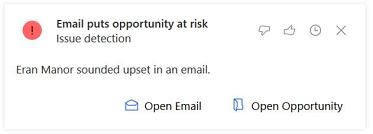
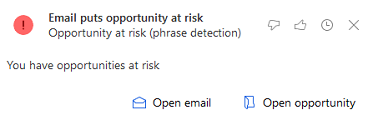
improvements

diff --git a/ai-docs/sales/action-cards-reference.md b/ai-docs/sales/action-cards-reference.md
@@ -46,7 +46,7 @@ The following cards are available under **Upcoming meetings**.
     <td><a href="#RelatedNEWS">Related news</a></td>
   </tr>
   <tr>
-    <td><a href="#NearbyCustomers">Nearby customers</a></td> 
+    <td><a href="#NearbyCustomers">Near by customers</a></td> 
     <td></td>
     <td></td>
   </tr>
@@ -55,10 +55,10 @@ The following cards are available under **Upcoming meetings**.
 
 |Insight card	| Description |
 |-------------|-------------|
-|<a name="MeetingToday"></a>**Meeting today** <br/>  ![Insight card for meeting today](media/ActionCard_MeetingToday.png "Insight card for meeting today")<br>**Meeting today (Exchange)**<br>![Insight card for meeting today exchange](media/ActionCard_MeetingTodayExchange.png "Insight card for meeting today exchange") | **Description**:<br>Tells that you have a meeting scheduled for today. <br>The Meeting Today card is derived from your appointments in Dynamics 365 Sales organization. <br>The Meeting Today (Exchange) card is derived from Exchange server.<br>**Features**:<br>Shows the meeting title, with a link to the meeting record. Shows the meeting description, location, start time, and key participants Open the detailed view to see the regarded entity and a collection of closely related insight cards, including relevant people, companies, opportunities, nearby customers, news, and more.<br>**Actions**: <br>Open Appointment<br>Email Attendees|
+|<a name="MeetingToday"></a>**Meeting today** <br/>  ![Insight card for meeting today](media/ActionCard_MeetingToday.png "Insight card for meeting today")<br>**Meeting today (Exchange)**<br>![Insight card for meeting today exchange](media/ActionCard_MeetingTodayExchange.png "Insight card for meeting today exchange") | **Description**:<br>Tells that you have a meeting scheduled for today. <br>The **Meeting Today** card is derived from your appointments in Dynamics 365 Sales organization. <br>The **Meeting Today (Exchange)** card is derived from you **Exchange** server.<br>**Features**:<br>Shows the meeting title, with a link to the meeting record. Shows the meeting description, location, start time, and key participants Open the detailed view to see the regarded entity and a collection of closely related insight cards, including relevant people, companies, opportunities, near by customers, news, and more.<br>**Actions**: <br>Open Appointment<br>Email Attendees|
 | <a name="UpcomingMeeting"></a>**Upcoming Meeting** <br />  ![Insight card for upcoming meeting](media/ActionCard_UpcomingMeeting.png "Insight card for upcoming meeting")<br> **Upcoming Meeting(Exchange)** <br />  ![Insight card for upcoming meeting exchange](media/ActionCard_UpcomingMeetingExchange.png "Insight card for upcoming meeting exchange") | **Description**: <br>Tells that you have a meeting scheduled to start in 30 minutes or less. When available, this card is given highest priority and appears at the top of the stack. That way, you'll have all of your important meeting information available. <br> The "meeting today" card is similar, but it's shown all day until the meeting ends, provides fewer features, and is given lower priority. <br>**Features**:<br> Shows the meeting title, with a link to the meeting record.<br>Shows the meeting description (shortened for space if needed). <br>Shows the regarding record (with link).<br> Shows a list of attendees (with link to the full list if there's more than four).<br>Displays a map of the location (if relevant and available; not for online meetings).<br> Open the detailed view to see a collection of closely related insight cards, including relevant people, companies, opportunities, news, and more.<br>**Actions**:<br> Join Meeting <br> Email Attendees |
 | <a name="RelatedNEWS"></a>**Related News** <br />  ![Insight card for related news](media/ActionCard_RelevantNews.png "Insight card for related news") | **Description**: <br>The card displays news headlines related to companies that are participating at the meeting. It's shown in the card details view when you tap a meeting card from the assistant feed.<br> **Features**:<br> Shows the date when the news was last updated.<br> Thumbnail image and headline for each found article. Click to view the full article. |
-| <a name="NearbyCustomers"></a>**Nearby Customers** <br />  ![Insight card for nearby customers](media/ActionCard_NearbyCustomers.png "Insight card for nearby customers")| **Description**: <br>The card finds customers that are located nearby the meeting location. It's shown in the card details view when you tap a meeting card from the assistant feed.<br> **Features**:<br> Shows the name of the nearest city. <br> Shows basic information about each company.|
+| <a name="NearbyCustomers"></a>**Near by Customers** <br />  ![Insight card for near by customers](media/ActionCard_NearbyCustomers.png "Insight card for near by customers")| **Description**: <br>The card finds customers that are located near by the meeting location. It's shown in the card details view when you tap a meeting card from the assistant feed.<br> **Features**:<br> Shows the top three near by customers. <br> Shows basic information about each company.|
 
 ## Reminders
 
@@ -81,21 +81,23 @@ The following cards are available under **Reminders**.
   </tr>
   <tr>
     <td><a href="#RecentMeetingExchange">Recent meeting/Recent meeting (Exchange)</a></td>
-    <td></td>
-    <td></td>
+    <td><a href="#ConsentSuggestion">Consent suggestion</a></td>
+    <td><a href="#MissedEmail">Missed email</a></td>
   </tr>
 </table>
 
 
 |Insight card	| Description |
 |-------------|-------------|
-| <a name="ActivityDueDate"></a>**{*Activity*} due today** <br />  ![Insight card for task due today](media/ActionCard_TaskDueToday.png "Insight card for task due today") | **Description**:<br> Tells you that an activity assigned to you is due today.<br> **Features**:<br>Indicates the type of activity (email, letter, phone call, task, or custom).<br> **Actions**: <br>Close (for activities, such as phone call and task)<br>Complete|
+| <a name="ActivityDueDate"></a>**{*Activity*} due today** <br />  ![Insight card for task due today](media/ActionCard_TaskDueToday.png "Insight card for task due today") | **Description**:<br> Tells you that an open activity is due today.<br> **Features**:<br>Indicates the type of activity (email, letter, phone call, task, or custom).<br> **Actions**: <br>Close (for activities, such as phone call and task)<br>Complete|
 | <a name="CloseDateComingSoon"></a>**Close date coming soon** <a name="CloseDateComingSoon"></a> <br />  ![Insight card for close date coming soon](media/ActionCard_CloseDateComingSoon.png "Insight card for close date coming soon") | **Description**: <br>Tells you that an open opportunity will soon reach its estimated close date. <br>**Features**:<br> Identifies the opportunity.<br>Tells how far away the close date is.<br>**Actions**:<br> Open opportunity<br>**Configuration options**:<br> Set how many days before the close date to start showing the card. The default value is set by your administrator.<br>**Note**: When you are viewing a dashboard, you'll only see these cards for opportunities that are assigned to you, but when you view a specific opportunity you'll see this card even if that opportunity is assigned to somebody else. |
 | <a name="MissedCloseDate"></a>**Missed (opportunity) close date** <br />  ![Insight card for missed close date](media/ActionCard_CloseDateMissed.png "Insight card for missed close date") | **Description**:<br> Tells you that an open opportunity has passed its close date. <br>**Features**:<br> Identifies the opportunity.<br>**Actions**:<br> Open opportunity<br>**Note**: When you are viewing a dashboard, you'll only see these cards for opportunities that are assigned to you, but when viewing a specific opportunity you'll see this card even if that opportunity is assigned to somebody else.|
 |<a name="EmailOpened"></a>**Email opened** <br />  ![Insight card for email opened](media/ActionCard_OpenedEmail.png "Insight card for email opened") | **Description**: <br>A followed email was opened by its recipient.<br>**Features**:<br>Names the contact you sent the email to.<br>Provides descriptive text that shows the subject of the email, the time it was opened, and the approximate location where it was opened.<br>**Actions**:<br>Open Email<br>**Prerequisites**:<br>Enable email engagement to use this card. To learn more, see [Configure and enable email engagement](configure-email-engagement.md). |
 | <a name="EmailReminder"></a>**Email reminder** <br />  ![Insight card for email reminder](media/ActionCard_EmailReminder.png "Insight card for email reminder") | **Description**: <br> You set a follow-up reminder for an email you recently sent, and its trigger conditions have just been met. Trigger conditions always include a date but may also include conditionals such as whether the email wasn't opened or replied to by that date.<br>**Features**:<br> Names the contact that you sent the email to.<br>Tells you that you set a follow-up reminder for this email.<br>Provides a description that summarizes the trigger conditions.<br>**Actions**:<br>Open Email<br>**Prerequisites**:<br>Enable email engagement to use this card. To learn more, see [Configure and enable email engagement](configure-email-engagement.md). |
 | <a name="NoActivityWithType"></a>**No activity with {*record type*}** <br />  ![Insight card for a lack of activity](media/ActionCard_NoActivity.png "Insight card for no activity") | **Description**:<br>Allows you to know that a record that you own has been inactive for some time. Applies to contact, opportunity, lead, account, and case records.<br>**Features**: <br>Identifies the type and name of the relevant record.<br>Explains why the card was generated.<br>**Actions**:<br>Open {*record type*}<br>Send Email<br>**Configuration options**: <br> Set the number of days of inactivity that must pass before a card is generated. You can set a different value for each type of supported record (contact, opportunity, lead, account, and case). |
 | <a name="RecentMeetingExchange"></a>**Recent meeting** <br />![Insight card for a recent meeting](media/ActionCard_RecentMeeting.png "Insight card for recent meeting")<br>**Recent meeting (Exchange)** <br />![Insight card for recent meeting exchange](media/ActionCard_RecentMeetingExchange.png "Insight card for recent meeting exchange") | **Description**:<br> Tells you that a meeting that you organized (where you are the record owner) has recently ended, giving you an easy opportunity to document the meeting in Dynamics 365 Sales. The card is displayed for 30 minutes after the scheduled end of the meeting, and then removed.<br>**Features**:<br>Identifies the meeting.<br>**Actions**:<br>Take Notes (Only for recent meeting)<br>Open Appointment |
+| <a name="ConsentSuggestion"></a>**Consent Suggestion** <br/> ![Consent Suggestion](media/ActionCard_ConsentSuggestion.png "Insight card for consent suggestion") | **Description**:<br>This card allows you to provide consent that allows Dynamics 365 Sales to access your Exchange data so that auto capture can provide suggestions for activities and contacts.<br>**Actions**:<br>Allow Access<br>**Prerequisite**: <br> Enable premium auto capture to use this card. To learn more, see [How to enable and configure premium auto capture](configure-auto-capture.md#how-to-enable-and-configure-premium-auto-capture).|
+| <a name="MissedEmail"></a>**Missed Email** <br /> ![Insight card for missed email](media/Actioncard_MissedEmail.png "Insight card for missed email") | **Description**: <br> Tells that an important email is unread for configured number of days.<br>**Actions**:<br>Open Email<br>**Configuration options**:<br>The  threshold number of days configurable on Settings page. To learn more, see Assistant. By Default, the number of days for Unread email is 3 days. |
 
 
 ## Insights
@@ -108,55 +110,50 @@ The following cards are available under **Insights**.
 
 <table class="tg">
   <tr>
+    <td><a href="#OpportunityRiskSentiment">Opportunity at risk (sentiment detection)</a></td>
+    <td><a href="#OpportunityRiskPhrase">Opportunity at risk (phrase detection)</a></td>
+    <td><a href="#CompetitorMentioned">Competitor mentioned</a></td>
+  </tr>
+  <tr>
     <td><a href="#IssueDetected">Issue detected</a></td>
-    <td><a href="#SuggestedStakeholder">Suggested stakeholder</a></td>
-    <td><a href="#CompetitorMentioned">Competitor mentioned</a></td> 
-  </tr>
-  <tr>
     <td><a href="#CustomerQuestion">Customer question</a></td>
-    <td><a href="#BuyingIntentDetectedEmail">Buying intent detected in email</a></td>
-    <td><a href="#OpportunityRisk">Opportunity at risk (phrase detection)</a></td>
+    <td><a href="#MeetingRequested">Meeting requested</td>
   </tr>
   <tr>
-    <td><a href="#MeetingRequested">Meeting requested</td>
     <td><a href="#FileRequested">File requested</a></td>
-    <td><a href="#MissedEmail">Missed email</a></td>
+    <td><a href="#BuyingIntentDetectedEmail">Buying intent detected in email</a></td>
+    <td><a href="#SuggestedStakeholder">Suggested stakeholder</a></td>
+  </tr>
+  <tr>
+    <td><a href="#SuggestedActivities">Suggested activities</a></td>
+    <td><a href="#SuggestedContacts">Suggested contacts</a></td>
+    <td><a href="#ContactMovedToNewOrg">Contact moved to a new org</a></td>
   </tr>
   <tr>
     <td><a href="#TodaysTopPeople">Today's top people</a></td>
     <td><a href="#TodaysTopRecords">Today's top records</td>
     <td><a href="#UpcomingFlight">Upcoming flight</a></td>
-  </td>
-  <tr>
-    <td><a href="#SuggestedActivities">Suggested activities</a></td>
-    <td><a href="#SuggestedContacts">Suggested contacts</a></td>
-    <td><a href="#ConsentSuggestion">Consent suggestion</a></td>
   </tr>
-  <tr>
-    <td><a href="#ContactMovedToNewOrg">Contact moved to a new org</a></td>
-    <td></td>
-    <td></td>
-  </tr>
+
 </table>
 
 |Insight card	|  Description |
 |-------------|--------------|
+|<a name="OpportunityRiskSentiment"></a>**Opportunity at Risk (sentiment detection)** <br />![Insight card for Opportunity at risk sentiment](media/ActionCard_OpportunityRiskSentiment.png "Insight card for Opportunity at Risk sentiment") | **Description**: Tell you that when an email is received concerning an open opportunity with negative sentiment which can put the opportunity at risk.<br>**Actions**:<br>Open Email<br>Open opportunity.|
+|<a name="OpportunityRiskPhrase"></a>**Opportunity at Risk (phrase detection)** <br />![Insight card for Opportunity at risk phrase detection](media/ActionCard_OpportunityRiskPhraseDetection.png "Insight card for Opportunity at Risk phrase detection") | **Description**: Tell you that when an email is received concerning an open opportunity contains a phrase which can put the opportunity at risk.<br>**Actions**:<br>Open Email<br>Open opportunity.|
+| <a name="CompetitorMentioned"></a>**Competitor mentioned** <br/>![Insight card for competitor mentioned](media/ActionCard_CompetitorMentioned.png "Insight card for competitor mentioned") | **Description**: <br> A tracked email email that is set as regarding a sales opportunity appears to refer to a company that is listed as a competitor in your system..<br>**Actions**:<br>Add Competitor<br>Always Add<br>**Configuration options**:<br>Set this feature to add the competitor automatically rather than showing the card.<br>**Note**: This is the same as the configuration setting available for this card type, and you can reset it by going to your Assistant settings. To learn more, see [Assistant](assistant.md). |
 | <a name="IssueDetected"></a>**Issue detected** <br/>![Insight card for case detected](media/ActionCard_CaseDetection.png "Insight card for case detected") |  **Description**: <br>An email from a known contact in your inbox appears to include a support request.<br>**Features**:<br>Shows the name of the contact.<br>Tells you that an email that appears to include a support request has arrived.<br>Displays the sentence from the email that appears to be asking for help.<br>**Actions**: <br>Create Case<br>Open Email |
-| <a name="SuggestedStakeholder"></a>**Suggested stakeholder** <br/>![Insight card for recommended stakeholder](media/ActionCard_RecommendedStakeholder.png "Insight card for recommended stakeholder") | **Description**: <br> An email regarding an open opportunity has arrived, and it includes an extra recipient that is not yet listed as a stakeholder for that opportunity.<br>**Features**:<br>Shows the name of the potential stakeholder.<br>Tells you that this person might be a stakeholder in an open opportunity.<br>Displays a short description that includes the name of the opportunity.<br>**Actions**:<br>Add Stakeholder<br>Always Add<br>**Configuration options**:<br>You can choose to add the stakeholder automatically rather than show the card.<br>**Note**: This  is the same as the configuration setting available for this card type, and you can reset it by going to your Assistant settings. To learn more, see [Assistant](assistant.md).|
-| <a name="CompetitorMentioned"></a>**Competitor mentioned** <br/>![Insight card for competitor mentioned](media/ActionCard_CompetitorMentioned.png "Insight card for competitor mentioned") | **Description**: <br> A tracked email that is set as regarding a Sales opportunity appears to refer to a company that is listed as a competitor in your system.<br>**Features**:<br>Shows the name of the competitor.<br>Tells you that a competitor was mentioned in an email.<br>Click the card to open the opportunity that the email is set to be regarding.<br>**Actions**:<br>Add Competitor<br>Always Add<br>**Configuration options**:<br>Set this feature to add the competitor automatically rather than showing the card.<br>**Note**: This is the same as the configuration setting available for this card type, and you can reset it by going to your Assistant settings. To learn more, see [Assistant](assistant.md). |
 | <a name="CustomerQuestion"></a>**Customer question** <br/>![Insight card for yes/no request](media/ActionCard_YesNoRequest.png "Insight card for yes/no request") | **Description**:<br>An email from a known contact in your inbox appears to be asking a question.<br>**Features**:<br>Shows the name of the contact.<br>Tells you that a question has arrived.<br>Displays the sentence from the email that appears to be asking a simple question.<br>**Actions**:<br>Open Email|
-| <a name="BuyingIntentDetectedEmail"></a>**Buying intent detected in email**<br />![Insight card for potential lead or upsell](media/ActionCard_BuyingIntentDetectedEmail.png "Insight card for potential lead or upsell") | **Description**: <br>An email from a known or unknown contact appears to be asking for more information about a product. For known contacts, this may be an upsell opportunity. For unknown contacts, this could be a new lead.<br>**Features**:<br>Shows the name of the sender.<br>Tells you that an email has arrived that may represent an upsell or new-lead opportunity.<br>Displays the sentence from the email that appears to be asking for product information.<br>**Actions**:<br>Open email. |
-|<a name="OpportunityRisk"></a>**Opportunity at Risk (Phrase detection)** <br />![Insight card for Opportunity at risk phrase detection](media/ActionCard_OpportunityRiskPhraseDetection.png "Insight card for Opportunity at Risk phrase detection") | **Description**: Tell you that when an email is received concerning an open opportunity with negative sentiment which can put the opportunity at risk.<br>**Actions**:<br>Open Email<br>Open opportunity.|
 | <a name="MeetingRequested"></a>**Meeting requested**<br />![Insight card for meeting request](media/ActionCard_MeetingRequest.png "Insight card for meeting request") | **Description**: <br>An email from a known contact in your inbox appears to include a meeting request.<br>**Features**:<br>Shows the name of the contact.<br>Tells you that a meeting request has arrived.<br>Displays the sentence from the email that appears to be asking for a meeting.<br>**Actions**:<br>Create Meeting<br>Open Email |
 | <a name="FileRequested"></a>**File requested**<br />![Insight card for file request](media/ActionCard_FileRequest.png "Insight card for file request") | **Description**: <br>An email from a known contact in your inbox appears to include a request for a file.<br>**Features**:<br>Shows the name of the contact.<br>Tells you that a request for a file has arrived.<br>Displays the sentence from the email that appears to be asking for a file.<br>**Actions**:<br>Open Email |
-| <a name="MissedEmail"></a>**Missed Email** <br /> ![Insight card for missed email](media/Actioncard_MissedEmail.png "Insight card for missed email") | **Description**: <br> Tells that an important email is unread for configured number of days.<br>**Actions**:<br>Open Email<br>**Configuration options**:<br>The  threshold number of days configurable on Settings page. To learn more, see Assistant. By Default, the number of days for Unread email is 3 days. |
-| <a name="TodaysTopPeople"></a>**Today's Top People** <br />![Insight card for top people today](media/ActionCard_TopPeople.png "Insight card for top people today") | **Description**: <br>The system analyzes your appointments, tasks, and other work for the day and generates this card to show the contacts you're most likely to interact with today.<br>**Features**:<br>Shows each contact's name and portrait.<br>Shows each contact's title and any business they have with you today (such as a meeting, task, or phone call).<br>Click to view full contact details. |
-| <a name="TodaysTopRecords"></a>**Today's Top Records**<br />![Insight card for top records today](media/ActionCard_TopRecords.png "Insight card for top records today") | **Description**:<br> The system analyzes all of the Sales records that are related to you and lists the records that you are most likely to be working with today based on your recent activities and date information (such as a due date or appointment) in each record.<br>**Features**:<br> Shows a thumbnail image and a summary of each found record.<br>Click to view the full record. |
-| <a name="UpcomingFlight"></a>**Upcoming Flight** <br />  ![flight](media/ActionCard_Flight.png "Insight card for upcoming flight") | **Description**: <br>This card is generated when your Exchange inbox includes an email message that contains a flight confirmation. The system then matches the flight dates to upcoming meetings and finds other information related to the location that you are flying to, such as other nearby customers.<br>**Note**: This card doesn't show live or updated flight information, just information from the flight confirmation email message that triggered the card.<br>**Features**: <br>Flight company and flight number, with a link to the flight record.<br>Departure and arrival times, with airport codes.<br>Related meeting record, with link. Up to three meetings may be listed here.<br>List of customer offices near the destination airport, with links. <br>**Actions**:<br>Open Email|
+| <a name="BuyingIntentDetectedEmail"></a>**Buying intent detected in email**<br />![Insight card for potential lead or upsell](media/ActionCard_BuyingIntentDetectedEmail.png "Insight card for potential lead or upsell") | **Description**: <br>An email from a known or unknown contact appears to be asking for more information about a product. For known contacts, this may be an upsell opportunity. For unknown contacts, this could be a new lead.<br>**Features**:<br>Shows the name of the sender.<br>Tells you that an email has arrived that may represent an upsell or new-lead opportunity.<br>Displays the sentence from the email that appears to be asking for product information.<br>**Actions**:<br>Open email. |
+| <a name="SuggestedStakeholder"></a>**Suggested stakeholder** <br/>![Insight card for recommended stakeholder](media/ActionCard_RecommendedStakeholder.png "Insight card for recommended stakeholder") | **Description**: <br> An email regarding an open opportunity has arrived, and it includes an extra recipient that is not yet listed as a stakeholder for that opportunity.<br>**Features**:<br>Shows the name of the potential stakeholder.<br>Tells you that this person might be a stakeholder in an open opportunity.<br>Displays a short description that includes the name of the opportunity.<br>**Actions**:<br>Add Stakeholder<br>Always Add<br>**Configuration options**:<br>You can choose to add the stakeholder automatically rather than show the card.<br>**Note**: This  is the same as the configuration setting available for this card type, and you can reset it by going to your Assistant settings. To learn more, see [Assistant](assistant.md).|
 | <a name="SuggestedActivities"></a>**Suggested Activities** <br/> ![Suggested activities](media/ActionCard_SuggestedActivities.png "Insight card for suggested activities") | **Description**:<br> This card is provided as an alert you when new activity suggestions are available in Dynamics 365 Sales.<br>**Feature**:<br>Indicates that new activities are available for you with the total number and regarding what.<br> **Actions**: <br>Open activity suggestions<br>**Prerequisite**: <br> Enable premium auto capture to use this card. To learn more, see [How to enable and configure premium auto capture](configure-auto-capture.md#how-to-enable-and-configure-premium-auto-capture). |
 | <a name="SuggestedContacts"></a>**Suggested Contacts** <br/> ![Suggested contacts](media/ActionCard_SuggestedContacts.png "Insight card for suggested contacts") | **Description**: <br>This card is provided as an alert you when new contact suggestions are available in Dynamics 365 Sales.<br>**Feature**:<br>Indicates that new contacts are available for you with the total number and who. <br>**Actions**: <br> Open contact suggestions<br>**Prerequisite**: <br> Enable premium auto capture to use this card. To learn more, see [How to enable and configure premium auto capture](configure-auto-capture.md#how-to-enable-and-configure-premium-auto-capture). |
-| <a name="ConsentSuggestion"></a>**Consent Suggestion** <br/> ![Consent Suggestion](media/ActionCard_ConsentSuggestion.png "Insight card for consent suggestion") | **Description**:<br>This card allows you to provide consent that allows Dynamics 365 Sales to access your Exchange data so that auto capture can provide suggestions for activities and contacts.<br>**Actions**:<br>Allow Access<br>**Prerequisite**: <br> Enable premium auto capture to use this card. To learn more, see [How to enable and configure premium auto capture](configure-auto-capture.md#how-to-enable-and-configure-premium-auto-capture).|
 | <a name="ContactMovedToNewOrg"></a>**Contact moved to a new org** <br/> ![Contact moved to a new org](media/ActionCard_ContactMovedToNewOrg.png "Insight card for contact moved to a new org") | **Description**: Tells you that one of your contacts has moved to a new organization based on the information LinkedIn has.<br>**Features**:<br>Indicates the contact that moved, what the origin company is and the new organization.<br>**Actions**:<br>Open<br> **Prerequisite**: <br> Enable Linkedin Sales Navigator to use this card. To learn more, see [Install, enable, and disable default LinkedIn Sales Navigator controls](https://docs.microsoft.com/dynamics365/linkedin/install-sales-navigator). |
+| <a name="TodaysTopPeople"></a>**Today's Top People** <br />![Insight card for top people today](media/ActionCard_TopPeople.png "Insight card for top people today") | **Description**: <br>The system analyzes your appointments, tasks, and other work for the day and generates this card to show the contacts you're most likely to interact with today.<br>**Features**:<br>Shows each contact's name and portrait.<br>Shows each contact's title and any business they have with you today (such as a meeting, task, or phone call).<br>Click to view full contact details. |
+| <a name="TodaysTopRecords"></a>**Today's Top Records**<br />![Insight card for top records today](media/ActionCard_TopRecords.png "Insight card for top records today") | **Description**:<br> The system analyzes all of the Sales records that are related to you and lists the records that you are most likely to be working with today based on your recent activities and date information (such as a due date or appointment) in each record.<br>**Features**:<br> Shows a thumbnail image and a summary of each found record.<br>Click to view the full record. |
+| <a name="UpcomingFlight"></a>**Upcoming Flight** <br />  ![flight](media/ActionCard_Flight.png "Insight card for upcoming flight") | **Description**: <br>This card is generated when your Exchange inbox includes an email message that contains a flight confirmation. The system then matches the flight dates to upcoming meetings and finds other information related to the location that you are flying to, such as other nearby customers.<br>**Note**: This card doesn't show live or updated flight information, just information from the flight confirmation email message that triggered the card.<br>**Features**: <br>Flight company and flight number, with a link to the flight record.<br>Departure and arrival times, with airport codes.<br>Related meeting record, with link. Up to three meetings may be listed here.<br>List of customer offices near the destination airport, with links. <br>**Actions**:<br>Open Email |
 
 ## Insufficient permissions
 

diff --git a/ai-docs/sales/privacy-notice.md b/ai-docs/sales/privacy-notice.md
@@ -93,6 +93,11 @@ The data passed in these events include Azure storage account name, blob contain
 
 It is the enterprise customer’s responsibility to comply with the GDPR. If you choose to honor and execute a data subject rights (DSR) request for delete or edit, please email [Microsoft](mailto:D365callintelligence@microsoft.com) and Microsoft will manually process the DSR to delete and edit.
 
+## Data protection
+
+Data as it is in transit between user devices and the Microsoft datacenters are secured. Connections established between customers and Microsoft datacenters are encrypted, and all public endpoints are secured using industry-standard TLS. TLS effectively establishes a security-enhanced browser to server connection to help ensure data confidentiality and integrity between desktops and datacenters. API access from the customer endpoint to the server is also similarly protected. Currently, TLS 1.2 (or higher) is required for accessing the server endpoints.
+
+All the data stored as part of sales insights are encrypted using Microsoft encryption keys.
 
 ### See also
 

diff --git a/ai-docs/sales/TOC.md b/ai-docs/sales/TOC.md
@@ -5,7 +5,7 @@
 ## [What's new](whats-new.md)
 
 ## Administrator guide 
-### [Introduction to administer Sales Insights](../sales/intro-admin-guide-sales-insights.md)
+### [Introduction](../sales/intro-admin-guide-sales-insights.md)
 
 ### Configure Assistant
 #### [Configure Assistant](configure-assistant.md)
@@ -39,7 +39,7 @@
 #### [Create and manage sequences](create-manage-sequences.md)
 #### [Integrate a sample softphone dialer with Dynamics 365 Sales](integrate-sample-softphone.md)
 
-### [Install Dynamics 365 assistant for Microsoft Teams](dynamics-365-assistant-app-teams.md)
+### [Install Dynamics 365 Assistant for Microsoft Teams](dynamics-365-assistant-app-teams.md)
 
 ### Configure Conversation Intelligence
 #### [Prerequisites to use Conversation Intelligence](../sales/prereq-sales-insights-app.md)

diff --git a/ai-docs/sales/faqs-sales-insights.md b/ai-docs/sales/faqs-sales-insights.md
@@ -20,7 +20,7 @@ caps.latest.revision: 01
 topic-status: Drafting
 ---
 
-# Frequently asked questions for Sales Insights
+# Frequently asked questions
 
 ## Language and region support
 
